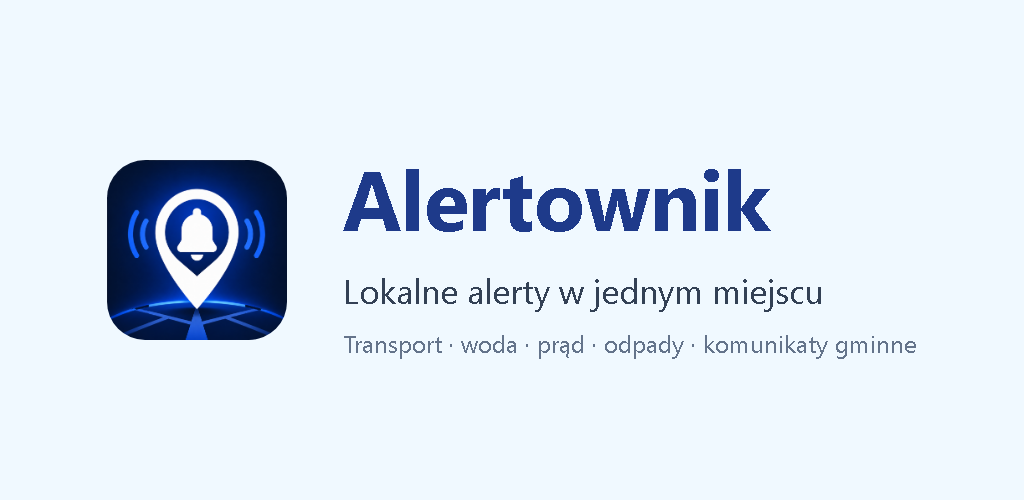
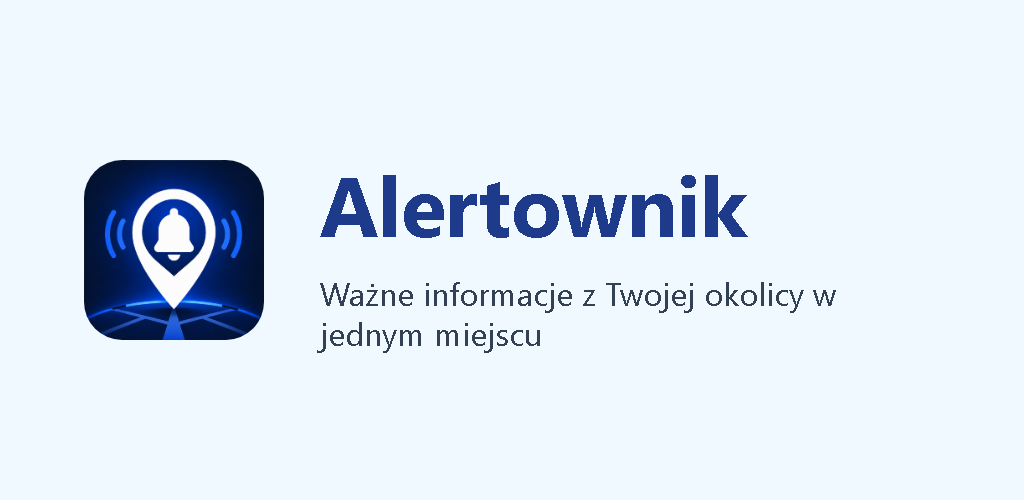
chore(play): finalize store assets and closed-test setup

diff --git a/tests/e2e/androidTwaScaffold.spec.ts b/tests/e2e/androidTwaScaffold.spec.ts
@@ -5,19 +5,32 @@ import path from "path";
 // Sprint 189 — Blok A+D Android TWA scaffold. This is a hand-written
 // config template, never a real Bubblewrap project (Bubblewrap generates a
 // real signing keystore during `init` itself, which this scaffold
-// deliberately stops before running — see android-twa/README.md). These
-// tests pin that the scaffold stays inert: no real package ID, no key
-// material, and nothing in the app wires it in.
+// deliberately stops before running — see android-twa/README.md). Adam
+// decided the real, final packageId (pl.alertownik.app) in a later block
+// (2026-07-31) — these tests pin that exact decision and confirm the
+// scaffold otherwise stays inert: no key material, no account data, and
+// nothing in the app wires it in.
 
 function readRepoFile(relativePath: string): string {
   return readFileSync(path.join(process.cwd(), relativePath), "utf8");
 }
 
 test.describe("android-twa scaffold stays inert", () => {
-  test("twa-manifest.example.json has a placeholder packageId, never a real one", () => {
+  // Adam's explicit, final packageId decision (2026-07-31) — permanent
+  // once ever uploaded to Google Play. This pins the exact, canonical
+  // value so a future edit can't silently drift to something else
+  // (including either of the two options Adam explicitly rejected:
+  // io.github.ad0wski.alertownik and com.alertownik.mvp), and confirms
+  // it's syntactically a valid Android application ID (lowercase
+  // dot-separated segments only — reused later verbatim by `bubblewrap
+  // init`, which this scaffold still stops short of running).
+  test("twa-manifest.example.json has Adam's decided, canonical packageId", () => {
     const raw = readRepoFile("android-twa/twa-manifest.example.json");
     const parsed = JSON.parse(raw);
-    expect(parsed.packageId).toContain("REPLACE_ME");
+    expect(parsed.packageId).toBe("pl.alertownik.app");
+    expect(parsed.packageId).not.toBe("io.github.ad0wski.alertownik");
+    expect(parsed.packageId).not.toBe("com.alertownik.mvp");
+    expect(parsed.packageId).toMatch(/^[a-z][a-z0-9_]*(\.[a-z][a-z0-9_]*)+$/);
   });
 
   test("twa-manifest.example.json values match the live manifest.ts (no drift)", () => {

diff --git a/docs/google-play/PLAY_STORE_READINESS.md b/docs/google-play/PLAY_STORE_READINESS.md
@@ -30,15 +30,28 @@ DECYZJI**. Ten dokument nie wykonuje żadnych działań w Google Play Console.
 
 ## 2. Proponowana karta sklepowa
 
-### Nazwa
+### Nazwa (App name, limit 30 znaków)
 Alertownik
 
-### Krótki opis (≤80 znaków)
-Lokalne alerty z oficjalnych źródeł: transport, prąd, woda i drogi.
+(11 znaków — bez zmian, zgodna z `manifest.ts` `name`/`short_name` i
+nagłówkiem aplikacji, żadna korekta nie jest potrzebna.)
 
-(66 znaków)
+### Krótki opis (Short description, limit 80 znaków)
 
-### Pełny opis
+**Rekomendacja (74 znaki), uwzględnia odpady, których brakowało w
+poprzedniej wersji:**
+
+> Lokalne alerty z oficjalnych źródeł: transport, prąd, woda, drogi, odpady.
+
+Poprzednia wersja robocza (67 znaków, zachowana dla porównania — nie
+wymieniała odpadów mimo że to działająca funkcja aplikacji, patrz `/odpady`):
+
+> Lokalne alerty z oficjalnych źródeł: transport, prąd, woda i drogi.
+
+**DO POTWIERDZENIA (Adam):** która wersja krótkiego opisu trafia do Play
+Console.
+
+### Pełny opis (Full description, limit 4000 znaków)
 
 Alertownik zbiera w jednym miejscu lokalne alerty — transport, przerwy w
 dostawie prądu i wody, utrudnienia drogowe, odpady i komunikaty gminne — na
@@ -51,12 +64,14 @@ możliwością filtrowania według kategorii.
 Co znajdziesz w aplikacji:
 — Bieżące alerty o zakłóceniach zebrane z oficjalnych źródeł, z podanym
   źródłem przy każdym wpisie.
-— Funkcję „Moja okolica” — zapisujesz interesującą Cię okolicę i kategorie,
+— Funkcję „Moja okolica" — zapisujesz interesującą Cię okolicę i kategorie,
   a aplikacja pokazuje w pierwszej kolejności to, co dotyczy Ciebie. Te
   ustawienia zostają wyłącznie na Twoim urządzeniu i nie są nigdzie
   wysyłane.
+— Harmonogram odbioru odpadów dla obsługiwanych miejscowości, z
+  przypomnieniem o najbliższym terminie.
 — Tryb jasny, ciemny i systemowy.
-— Podstawowy dostęp offline (ekran „Brak połączenia” — aplikacja nigdy nie
+— Podstawowy dostęp offline (ekran „Brak połączenia" — aplikacja nigdy nie
   pokaże starego alertu jako aktualnego, gdy jesteś offline).
 
 Korzystanie z Alertownika nie wymaga zakładania konta ani podawania danych
@@ -69,6 +84,13 @@ zasięg widać bezpośrednio w aplikacji.
 
 Projekt stale się rozwija — jeśli zauważysz błąd w alercie albo brakujące
 źródło, możesz zgłosić to bezpośrednio z poziomu aplikacji lub strony.
+
+**Zmiana względem poprzedniej wersji:** dodano zdanie o harmonogramie
+odbioru odpadów — to realna, działająca funkcja (`/odpady`,
+`WasteScheduleSection`), pominięta w poprzednim szkicu. Nic innego nie
+zostało dopisane ani upiększone ponad to, co aplikacja faktycznie robi dziś
+(brak wzmianek o powiadomieniach push, pełnym pokryciu Polski czy danych
+„na żywo" — żadna z tych funkcji nie istnieje).
 
 **DO POTWIERDZENIA (Adam):** ostateczna treść pełnego opisu przed wklejeniem
 do Play Console, w szczególności zdanie o zasięgu miejscowości — powyższa
@@ -83,7 +105,9 @@ pilotażowy, zgodnie z instrukcją.
 
 Uzasadnienie: aplikacja agreguje i publikuje lokalne komunikaty z oficjalnych
 źródeł — bliżej modelu agregatora informacji lokalnych niż narzędzia
-użytkowego.
+użytkowego. Spójne z podpowiedzią już zapisaną w kodzie: `manifest.ts`
+(`categories: ["news", "utilities"]`, Sprint 186A) — to pole Web App
+Manifest, nie tożsame z kategorią Play Console, ale ten sam kierunek.
 
 **DO POTWIERDZENIA:** ostateczny wybór kategorii następuje z zamkniętej listy
 kategorii dostępnej w formularzu Play Console w momencie tworzenia karty —
@@ -92,14 +116,37 @@ od powyższej propozycji.
 
 ---
 
-## 4. Checklista zasobów graficznych
+## 4. Dane kontaktowe
+
+| Pole (Play Console) | Wartość | Źródło / uwaga |
+|---|---|---|
+| **E-mail deweloperski (publiczny, wymagany)** | `alertownik.kontakt@gmail.com` | Ten sam adres, którego aplikacja już używa we wszystkich linkach „Napisz do nas" (`src/lib/feedbackMailto.ts`, `FEEDBACK_EMAIL`) i w polityce prywatności (`/prywatnosc`) — spójność z tym, co użytkownik widzi w samej aplikacji. |
+| **Strona internetowa (opcjonalna)** | `https://alertownik-mvp.vercel.app/` | Aktualny publiczny adres produkcyjny. Alternatywnie `/demo` (Sprint Day 18) jako krótsza strona wprowadzająca bez logowania — **DO DECYZJI (Adam)**, który adres wygodniej podać. |
+| **Telefon (opcjonalny)** | brak do podania | Numer telefonu do konta Play Console jest w trakcie weryfikacji (patrz sekcja 1) — to inne pole niż publiczny numer kontaktowy karty sklepu, którego projekt obecnie nie udostępnia. Nie ma potrzeby go dodawać. |
+| **Adres fizyczny** | nie dotyczy tej karty | Play Console może wymagać adresu na poziomie konta dewelopera (rozliczenia/zgodność), nie karty sklepu — poza zakresem tego dokumentu. **DO POTWIERDZENIA (Adam)**, jeśli formularz konta go zażąda. |
+| **Administrator danych (RODO, z `/prywatnosc`)** | Adam Jurkowski, osoba fizyczna, projekt niekomercyjny/pilotażowy | Już opublikowane w `/prywatnosc` — użyj tej samej formuły wszędzie, gdzie Play pyta o tożsamość dewelopera/administratora danych, żeby uniknąć rozbieżności między kartą sklepu a polityką prywatności. |
+
+**Zasada spójności:** każde miejsce w Play Console pytające o kontakt lub
+tożsamość dewelopera powinno wskazywać dokładnie te same dane co `/prywatnosc`
+i istniejące linki „Napisz do nas" w aplikacji — inny e-mail albo inna nazwa
+administratora w karcie sklepu niż w polityce prywatności byłyby realną
+niespójnością, nie tylko kosmetyczną.
+
+---
+
+## 5. Checklista zasobów graficznych
 
 | Zasób | Ścieżka / status |
 |---|---|
-| Ikona aplikacji 512×512 | `assets/store/play-icon-512.png` — istnieje w repo |
-| Grafika promocyjna 1024×500 | `assets/store/feature-graphic-1024x500.png` — istnieje w repo |
-| Screenshoty telefonu (min. 2) | **nadal do wykonania** — brak w repo celowo (patrz `assets/store/README.md`) |
+| Ikona aplikacji 512×512 | `assets/store/play-icon-512.png` — istnieje w repo, **zatwierdzona wizualnie przez Adama** |
+| Grafika promocyjna 1024×500 | `assets/store/feature-graphic-1024x500.png` — istnieje w repo, **zatwierdzona wizualnie przez Adama** (slogan „Ważne informacje z Twojej okolicy w jednym miejscu") |
+| Screenshoty telefonu (min. 2, przygotowano 4) | `assets/store/screenshots/phone/` — **zatwierdzone wizualnie przez Adama** |
+| Screenshoty tabletu 7" (min. 2) | `assets/store/screenshots/tablet-7/` — **zatwierdzone wizualnie przez Adama** |
+| Screenshoty tabletu 10" (min. 2) | `assets/store/screenshots/tablet-10/` — **zatwierdzone wizualnie przez Adama** |
 | Wideo promocyjne | niewymagane |
+
+Pełna tabela plik → pole Play Console → format → wymiary → rozmiar →
+ekran źródłowy: `assets/store/README.md`.
 
 **Zasada obowiązkowa:** każda grafika (ikona, grafika promocyjna,
 screenshoty) wymaga wizualnego zatwierdzenia przez Adama przed przesłaniem do
@@ -108,7 +155,7 @@ Google) ani sugerować oficjalnej afiliacji.
 
 ---
 
-## 5. Matryca deklaracji — materiał roboczy, NIE gotowa deklaracja prawna
+## 6. Matryca deklaracji — materiał roboczy, NIE gotowa deklaracja prawna
 
 > Poniższa tabela to notatka pomocnicza z audytu kodu, ułatwiająca
 > wypełnienie formularzy Play Console. **Nie jest to gotowa, zatwierdzona
@@ -121,7 +168,7 @@ Google) ani sugerować oficjalnej afiliacji.
 | Reklamy | Nie |
 | Płatności | Nie |
 | Publiczne konta użytkowników | Nie (logowanie istnieje wyłącznie dla administratorów) |
-| Geolokalizacja GPS | Nie (funkcja „Moja okolica” to ręcznie wpisywany tekst, nie `navigator.geolocation`) |
+| Geolokalizacja GPS | Nie (funkcja „Moja okolica" to ręcznie wpisywany tekst, nie `navigator.geolocation`) |
 | Analityka | Nie wykryto w kodzie |
 | Treści użytkowników (UGC) | Nie |
 | Preferencje użytkownika | Przechowywane wyłącznie lokalnie na urządzeniu (localStorage), nigdy nie wysyłane na serwer |
@@ -132,7 +179,7 @@ Google) ani sugerować oficjalnej afiliacji.
 
 ---
 
-## 6. Checklista deklaracji Play Console
+## 7. Checklista deklaracji Play Console
 
 - [ ] Data safety (formularz bezpieczeństwa danych)
 - [ ] Polityka prywatności (link publiczny w karcie aplikacji)
@@ -141,12 +188,12 @@ Google) ani sugerować oficjalnej afiliacji.
 - [ ] Reklamy (deklaracja obecności/braku reklam)
 - [ ] Dostęp do aplikacji (app access — czy wymaga logowania do pełnej funkcjonalności)
 - [ ] Deklaracja aplikacji informacyjnej/newsowej (news app declaration, jeśli wymagana dla wybranej kategorii)
-- [ ] Dane kontaktowe karty aplikacji (adres e-mail, opcjonalnie strona/telefon)
+- [ ] Dane kontaktowe karty aplikacji (adres e-mail, opcjonalnie strona/telefon) — patrz sekcja 4
 - [ ] Oświadczenie o braku oficjalnego powiązania z urzędami/instytucjami
 
 ---
 
-## 7. Plan zamkniętego testu (closed testing)
+## 8. Plan zamkniętego testu (closed testing)
 
 - Minimum **12 testerów**.
 - Co najmniej **14 kolejnych dni** ciągłego zapisania do testu.
@@ -162,7 +209,7 @@ Google) ani sugerować oficjalnej afiliacji.
 
 ---
 
-## 8. Tekst zaproszenia dla testerów (bez linku)
+## 9. Tekst zaproszenia dla testerów (bez linku)
 
 > Cześć! Testuję teraz aplikację Alertownik na Androida — lokalne alerty
 > (transport, prąd, woda, drogi, odpady) zebrane w jednym miejscu z
@@ -181,7 +228,7 @@ dostępny, ponieważ aplikacja nie została jeszcze utworzona w Play Console.
 
 ---
 
-## 9. Rejestr testerów — uwaga o poufności
+## 10. Rejestr testerów — uwaga o poufności
 
 `testers-template.csv` w tym katalogu zawiera wyłącznie nagłówki i jeden
 fikcyjny przykładowy wiersz. **Plik z prawdziwymi adresami e-mail i danymi
@@ -193,11 +240,13 @@ mimo to trafi do repo, dodać go do `.gitignore` przed wypełnieniem danymi.
 
 ## Decyzje wymagające potwierdzenia Adama (zbiorczo)
 
-1. Ostateczna treść pełnego opisu przed wklejeniem do Play Console.
-2. Ostateczny wybór kategorii z zamkniętej listy Play Console.
-3. Wizualne zatwierdzenie ikony, grafiki promocyjnej i screenshotów przed przesłaniem.
-4. Wykonanie brakujących screenshotów telefonu.
-5. Decyzja co do uprawnienia `POST_NOTIFICATIONS` przed finalnym wydaniem.
-6. Potwierdzenie zakresu przetwarzania danych przez Vercel/Supabase przed zatwierdzeniem Data safety.
-7. Końcowa rewizja `/prywatnosc` przed publiczną publikacją w sklepie.
-8. Wypełnienie i zatwierdzenie wszystkich formularzy z sekcji 6 bezpośrednio w Play Console (poza zakresem tego dokumentu).
+1. Wybór wersji krótkiego opisu (sekcja 2).
+2. Ostateczna treść pełnego opisu przed wklejeniem do Play Console (sekcja 2).
+3. Ostateczny wybór kategorii z zamkniętej listy Play Console (sekcja 3).
+4. Który adres podać jako „Strona internetowa" karty sklepu — pełna aplikacja czy `/demo` (sekcja 4).
+5. Czy formularz konta dewelopera zażąda adresu fizycznego, i jakiego (sekcja 4).
+6. Wykonanie brakujących screenshotów telefonu i tabletu — **zrealizowane**, zatwierdzone wizualnie 2026-08-04 (sekcja 5).
+7. Decyzja co do uprawnienia `POST_NOTIFICATIONS` przed finalnym wydaniem (sekcja 6).
+8. Potwierdzenie zakresu przetwarzania danych przez Vercel/Supabase przed zatwierdzeniem Data safety (sekcja 6).
+9. Końcowa rewizja `/prywatnosc` przed publiczną publikacją w sklepie (sekcja 6).
+10. Wypełnienie i zatwierdzenie wszystkich formularzy z sekcji 7 bezpośrednio w Play Console (poza zakresem tego dokumentu).

diff --git a/assets/store/README.md b/assets/store/README.md
@@ -1,21 +1,80 @@
 # Store assets (not served by the app)
 
-Files here exist only for a FUTURE Google Play listing (Sprint 128).
-Nothing in this folder is referenced by the app or deployed anywhere.
+Files here exist only for the Google Play Console listing. Nothing in this
+folder is referenced by the app or deployed anywhere.
 
 - `play-icon-512.png` — Play app icon (512×512, full-bleed square; Play applies its own mask)
 - `feature-graphic-1024x500.png` — Play feature graphic
+- `screenshots/phone/` — 4 phone screenshots (1080×1920)
+- `screenshots/tablet-7/` — 2 tablet 7″ screenshots (1920×1080, landscape)
+- `screenshots/tablet-10/` — 2 tablet 10″ screenshots (1920×1080, landscape)
 
-Regenerate everything (plus the served PWA icons in `public/` and
+Regenerate the icon (plus the served PWA icons in `public/` and
 `src/app/apple-icon.png`) with:
 
 ```bash
 node scripts/generate-mobile-assets.mjs
 ```
 
-Rules: no institution logos (WKD/PGE/gmina/Google), no claims of official
-affiliation, no store badges before an actual listing exists. Visual review
-by Adam before any of this is used anywhere public.
+That script also regenerates `feature-graphic-1024x500.png`, but with a
+placeholder tagline ("Lokalne alerty w jednym miejscu") — the version
+currently in this folder was regenerated separately with the approved
+store-listing slogan below. If you re-run `generate-mobile-assets.mjs`,
+re-apply the slogan afterwards (or update the script's tagline text, which
+is a deliberate content decision, not something to change casually).
 
-Screenshots are deliberately NOT stored in the repo — see the Obsidian page
-`Mobile Screenshot Pack` for the capture checklist.
+The screenshots were captured against the **live production app**
+(`https://alertownik-mvp.vercel.app`) with Playwright (already a
+devDependency — no new packages installed), at exact pixel output via
+`deviceScaleFactor`, on 2026-08-04. They are not stored generation scripts
+in this repo (one-off capture, run from a temp file) — to refresh them,
+recreate a small Playwright script that navigates to each public route at
+the viewport/scale combos below and re-run it, then replace the files here.
+
+Rules: no institution logos (WKD/PGE/gmina/Google), no claims of official
+affiliation, no store badges, no unreleased features (push notifications,
+live tracking, full Poland coverage). Visual review by Adam before any of
+this is used anywhere public.
+
+---
+
+## Co przesłać do którego pola w Google Play Console
+
+| Plik | Pole w Play Console | Format | Wymiary | Rozmiar | Źródłowy ekran |
+|---|---|---|---|---|---|
+| `play-icon-512.png` | **Ikona aplikacji** (App icon) | PNG | 512×512 | 208 KB (limit 1 MB) | Zatwierdzone logo Alertownika (`assets/brand/alertownik-logo-master.png`), bez tekstu |
+| `feature-graphic-1024x500.png` | **Grafika promocyjna** (Feature graphic) | PNG | 1024×500 | 44 KB (limit 15 MB) | To samo logo + nazwa „Alertownik” + slogan „Ważne informacje z Twojej okolicy w jednym miejscu” |
+| `screenshots/phone/phone-01-dzisiaj.png` | **Zrzuty ekranu telefonu** #1 | PNG | 1080×1920 | 84 KB (limit 8 MB) | `/` — ekran „Dzisiaj” (najbliższy alert + najbliższy odbiór odpadów) |
+| `screenshots/phone/phone-02-alerty.png` | **Zrzuty ekranu telefonu** #2 | PNG | 1080×1920 | 94 KB (limit 8 MB) | `/alerty` — pełna lista alertów z wyszukiwarką i filtrem kategorii |
+| `screenshots/phone/phone-03-szczegoly-alertu.png` | **Zrzuty ekranu telefonu** #3 | PNG | 1080×1920 | 66 KB (limit 8 MB) | `/alerts/wkd-rozklad-jazdy-od-2026-06-29` — szczegóły prawdziwego, opublikowanego alertu |
+| `screenshots/phone/phone-04-moja-okolica.png` | **Zrzuty ekranu telefonu** #4 | PNG | 1080×1920 | 94 KB (limit 8 MB) | `/alerty` — panel „Moja okolica” otwarty (wybór miejscowości/kategorii) |
+| `screenshots/tablet-7/tablet7-01-dzisiaj.png` | **Zrzuty ekranu — tablet 7″** #1 | PNG | 1920×1080 (16:9, landscape) | 53 KB (limit 8 MB) | `/` przy szerokości ~960 CSS px (układ tabletowy) |
+| `screenshots/tablet-7/tablet7-02-alerty.png` | **Zrzuty ekranu — tablet 7″** #2 | PNG | 1920×1080 (16:9, landscape) | 68 KB (limit 8 MB) | `/alerty` przy szerokości ~960 CSS px |
+| `screenshots/tablet-10/tablet10-01-dzisiaj.png` | **Zrzuty ekranu — tablet 10″** #1 | PNG | 1920×1080 (16:9, landscape) | 51 KB (limit 8 MB) | `/` przy szerokości ~1280 CSS px (szerszy układ tabletowy) |
+| `screenshots/tablet-10/tablet10-02-alerty.png` | **Zrzuty ekranu — tablet 10″** #2 | PNG | 1920×1080 (16:9, landscape) | 60 KB (limit 8 MB) | `/alerty` przy szerokości ~1280 CSS px |
+
+**Pola pozostawione puste celowo** (zgodnie z zakresem zlecenia): film YouTube,
+materiały na Chromebooka, materiały Android XR.
+
+## Uwagi weryfikacyjne
+
+- Wszystkie wymiary i rozmiary powyżej zostały zmierzone automatycznie
+  (nagłówek PNG + rozmiar pliku), nie oszacowane.
+- Wszystkie zrzuty ekranu pokazują wyłącznie publiczne, rzeczywiście
+  renderowane widoki aplikacji (produkcja: `alertownik-mvp.vercel.app`) —
+  brak panelu admina, logowania, danych deweloperskich, pustych stanów lub
+  błędów.
+- Alert użyty w zrzucie „szczegóły alertu” („Rozkład jazdy WKD od 29
+  czerwca”) to prawdziwy, opublikowany wpis w bazie produkcyjnej, nie dane
+  testowe.
+- Ikona i grafika promocyjna pochodzą z tego samego zatwierdzonego pliku
+  źródłowego marki co ikony PWA aplikacji (`public/icon-*.png`) — ten sam
+  wygląd na urządzeniu i w sklepie.
+
+## Wciąż wymaga Twojej decyzji
+
+1. **Wizualne zatwierdzenie** wszystkich 10 plików przed przesłaniem do
+   Play Console (zasada z `docs/google-play/PLAY_STORE_READINESS.md`,
+   sekcja 4, nadal obowiązuje).
+2. Wybór ekranu alertu w zrzucie #3 — jeśli wolisz inny opublikowany alert
+   niż rozkład WKD (np. ze względu na aktualność dat), łatwo podmienić.
